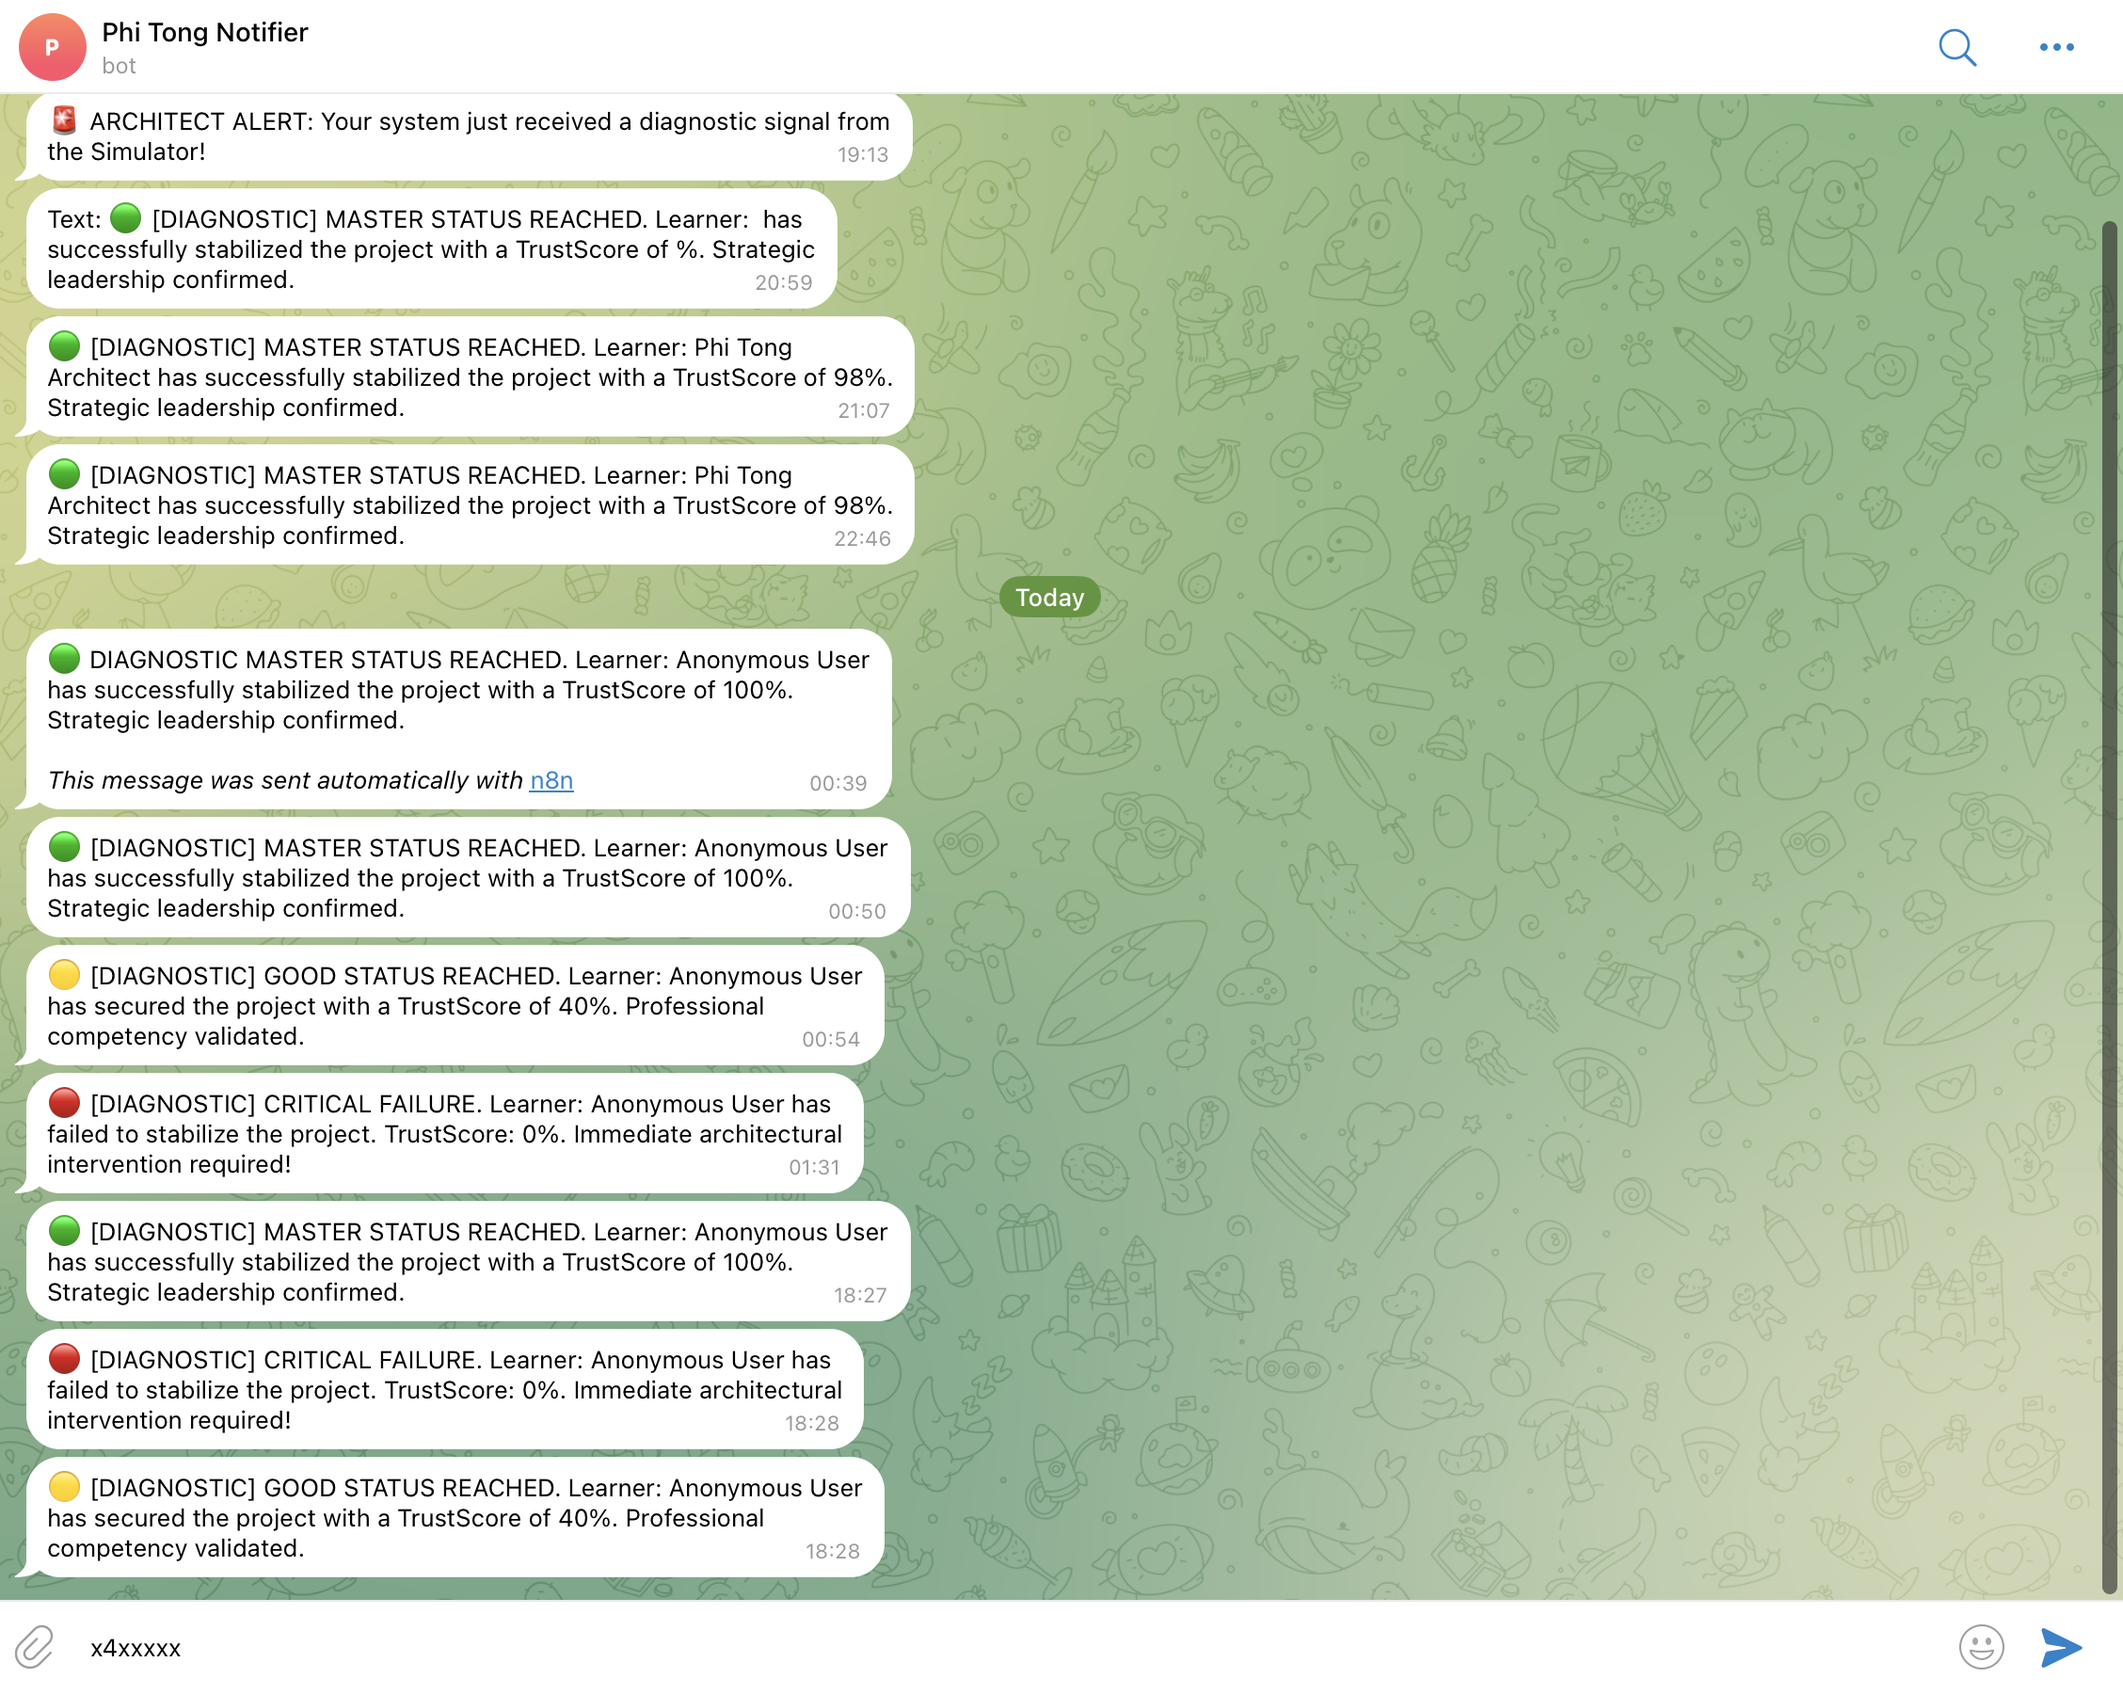
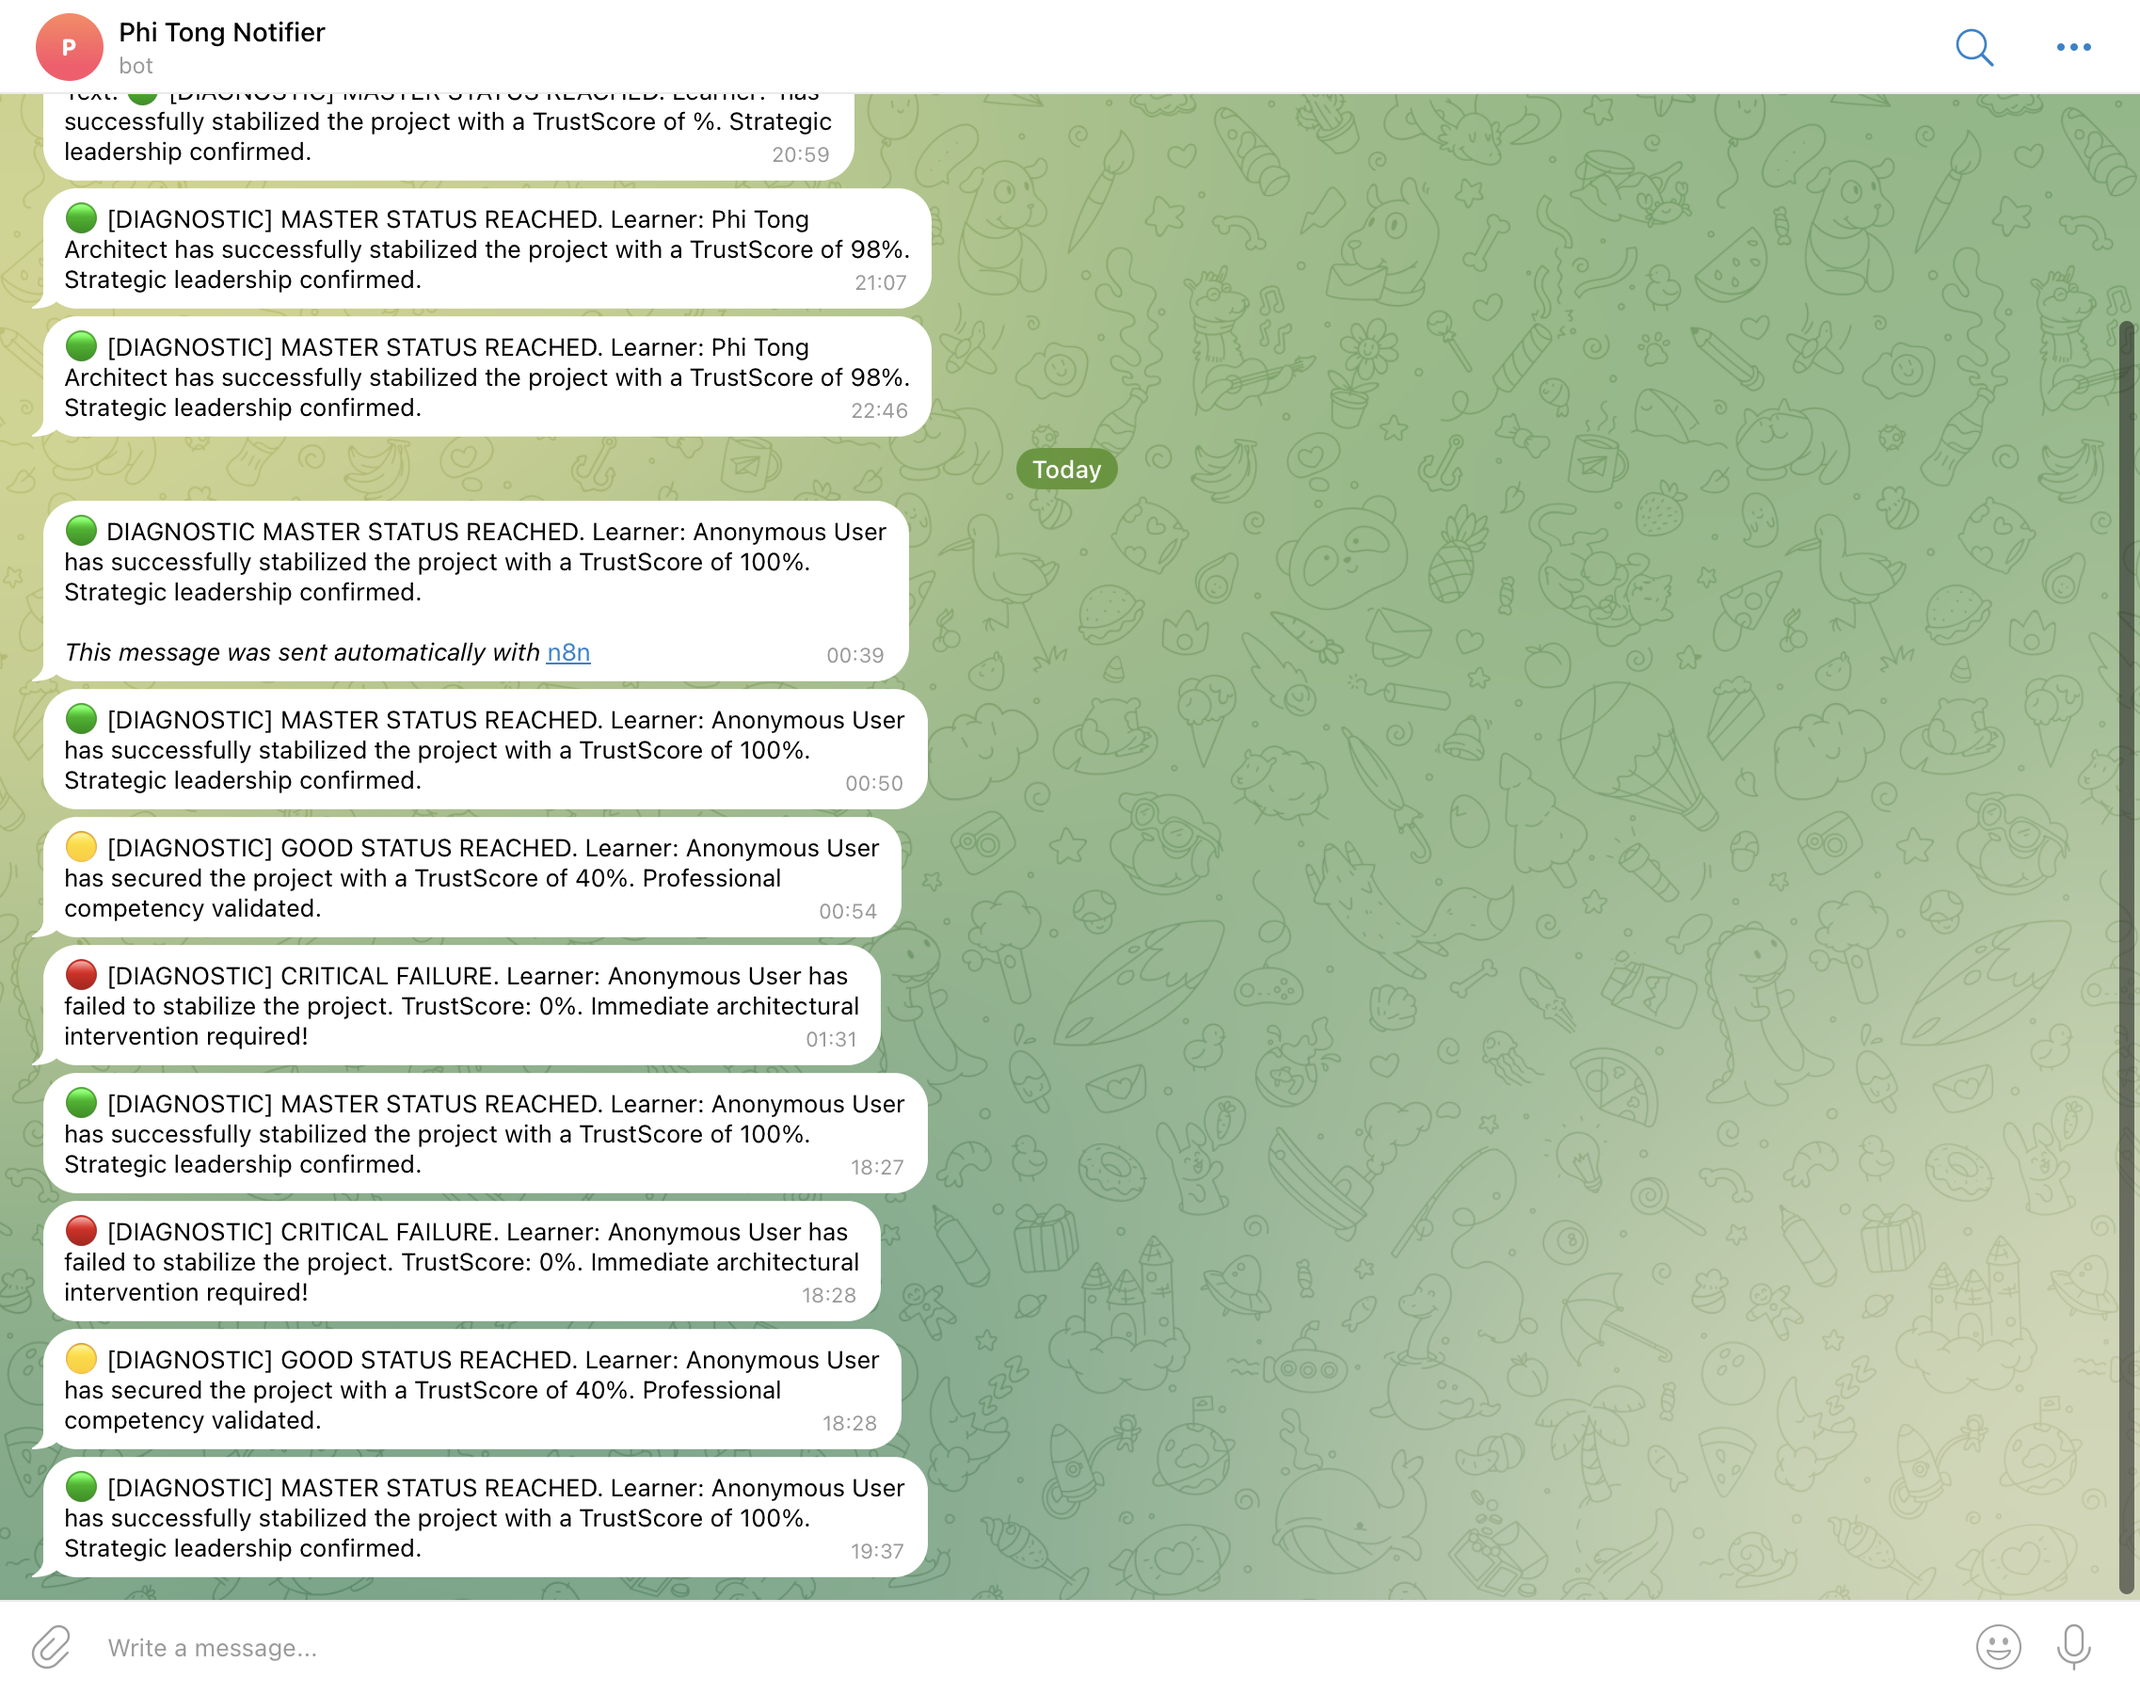
UI: Update Telegram evidence and revert manual CSS crop

diff --git a/case-study-titanium.html b/case-study-titanium.html
@@ -345,13 +345,13 @@
         }
 
         /* --- Specific Crop for Telegram Footer --- */
-        .telegram-crop {
+        . {
             height: 650px; /* Carefully calculated to hide the input bar */
             overflow: hidden;
             border-radius: 8px;
         }
 
-        .telegram-crop img {
+        . img {
             width: 100%;
             height: 100%;
             object-fit: cover;
@@ -619,7 +619,7 @@
 
             <div class="evidence-stack">
                 <div class="evidence-frame">
-                    <div class="image-box telegram-crop" style="margin:0;">
+                    <div class="image-box " style="margin:0;">
                         <img src="assets/Titanium_Evidence/Telegram.png" alt="Telegram Notification">
                     </div>
                     <div class="caption" style="border:none;">Real-time Telegram Alert Payload: Instant visibility from the serverless bridge.</div>
